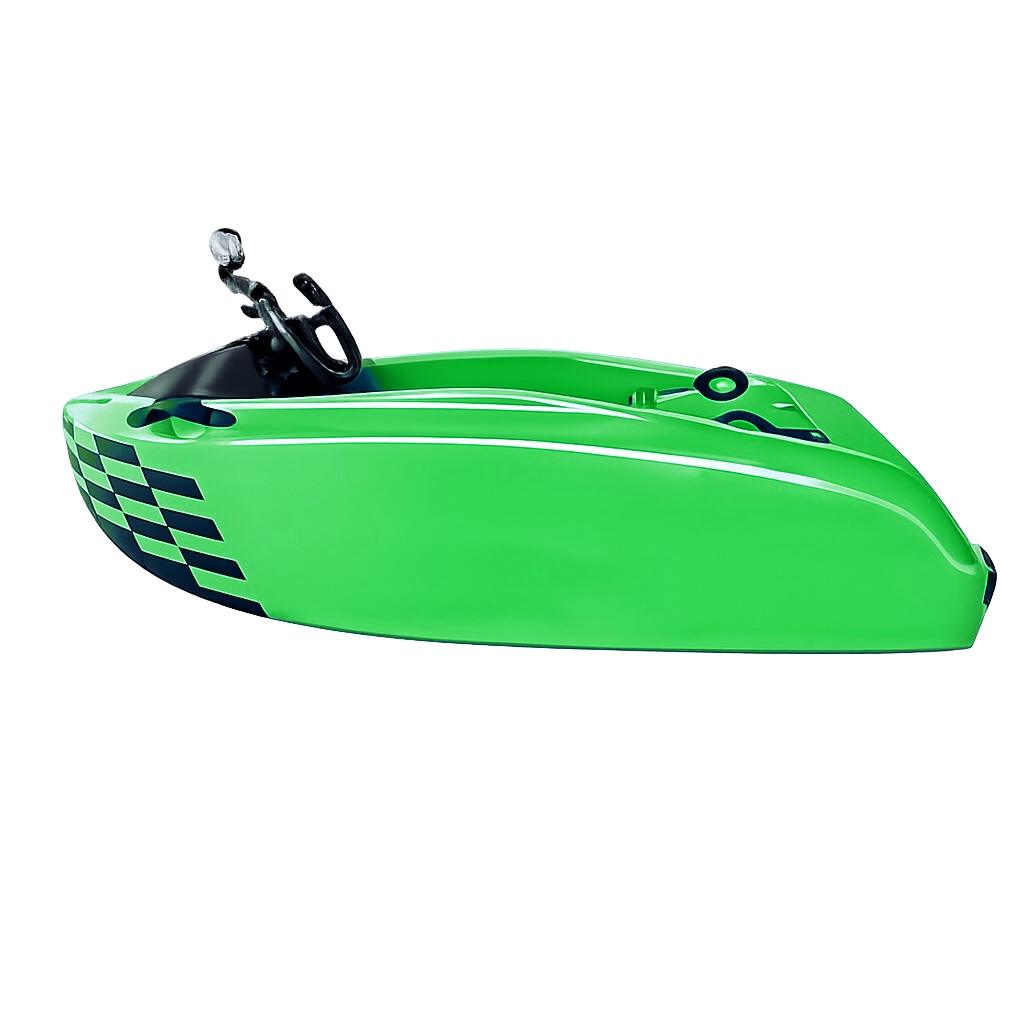
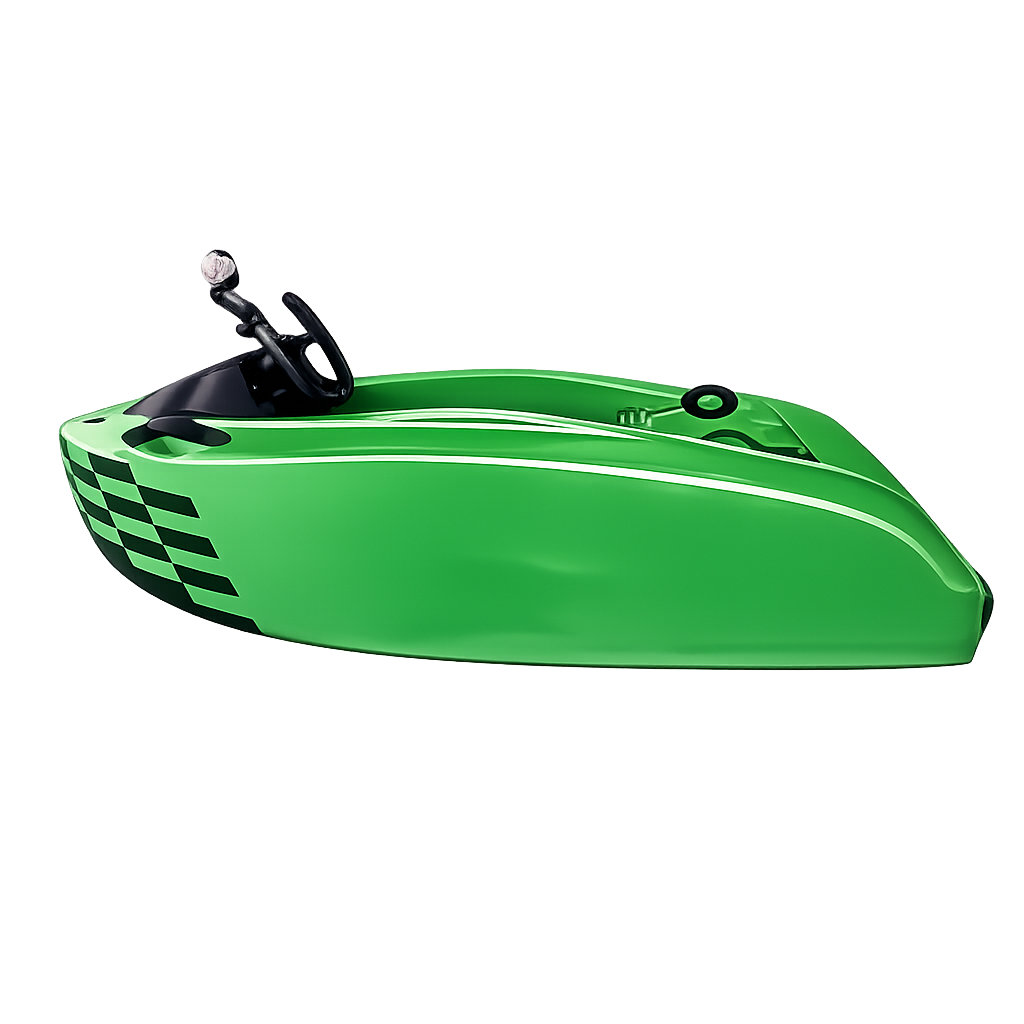
Remove CSS kart from compare page, show only PNG
https://claude.ai/code/session_01WyxBfbaNdqFLAGUVgy4KnV

Changed region(s): [[0.0312, 0.2188, 0.9688, 0.6562]]

diff --git a/compare.html b/compare.html
@@ -41,12 +41,8 @@
       <div class="font-serif" style="font-size:20px;font-style:italic;color:var(--warm-grey);margin-bottom:20px;">Sport Edition</div>
       <p style="color:var(--ink-2);margin-bottom:28px;font-size:16px;line-height:1.55;">Portability and fun for personal adventures.</p>
       <div style="aspect-ratio:4/3;background:#fff;border-radius:12px;margin-bottom:28px;position:relative;overflow:hidden;">
-        <div class="iw-kart" style="--kart-color:#54AFC5;position:absolute;inset:0;">
-          <div class="iw-kart-body" style="width:60%;height:38%;"></div>
-        </div>
         <img src="assets/wavekart/s-blue.png" alt="Wavekart S"
-          onload="this.style.opacity=1" onerror="this.style.opacity=0"
-          style="position:absolute;inset:0;width:100%;height:100%;object-fit:contain;opacity:0;transition:opacity .5s cubic-bezier(.2,.7,.3,1);">
+          style="position:absolute;inset:0;width:100%;height:100%;object-fit:contain;">
       </div>
       <div class="tracked-md" style="font-size:10px;color:var(--warm-grey);margin-bottom:4px;">STARTING FROM</div>
       <div class="font-display" style="font-size:28px;font-weight:200;margin-bottom:24px;">$8,999</div>
@@ -62,12 +58,8 @@
       <div class="font-serif" style="font-size:20px;font-style:italic;color:var(--warm-grey);margin-bottom:20px;">Family Edition</div>
       <p style="color:var(--ink-2);margin-bottom:28px;font-size:16px;line-height:1.55;">Designed for resorts, rentals, and shared shorelines.</p>
       <div style="aspect-ratio:4/3;background:#fff;border-radius:12px;margin-bottom:28px;position:relative;overflow:hidden;">
-        <div class="iw-kart" style="--kart-color:#1AB6EF;position:absolute;inset:0;">
-          <div class="iw-kart-body" style="width:74%;height:44%;"></div>
-        </div>
         <img src="assets/wavekart/x-blue.png" alt="Wavekart X"
-          onload="this.style.opacity=1" onerror="this.style.opacity=0"
-          style="position:absolute;inset:0;width:100%;height:100%;object-fit:contain;opacity:0;transition:opacity .5s cubic-bezier(.2,.7,.3,1);">
+          style="position:absolute;inset:0;width:100%;height:100%;object-fit:contain;">
       </div>
       <div class="tracked-md" style="font-size:10px;color:var(--warm-grey);margin-bottom:4px;">PRICING</div>
       <div class="font-display" style="font-size:28px;font-weight:200;margin-bottom:24px;">On request</div>
